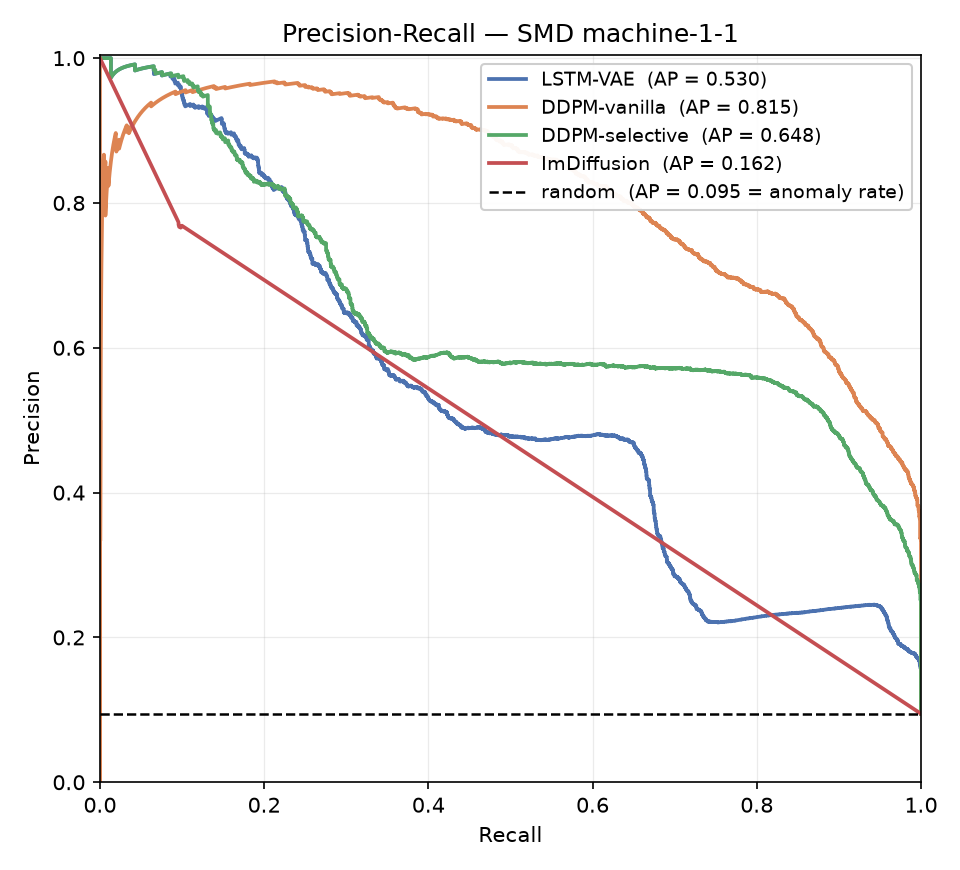
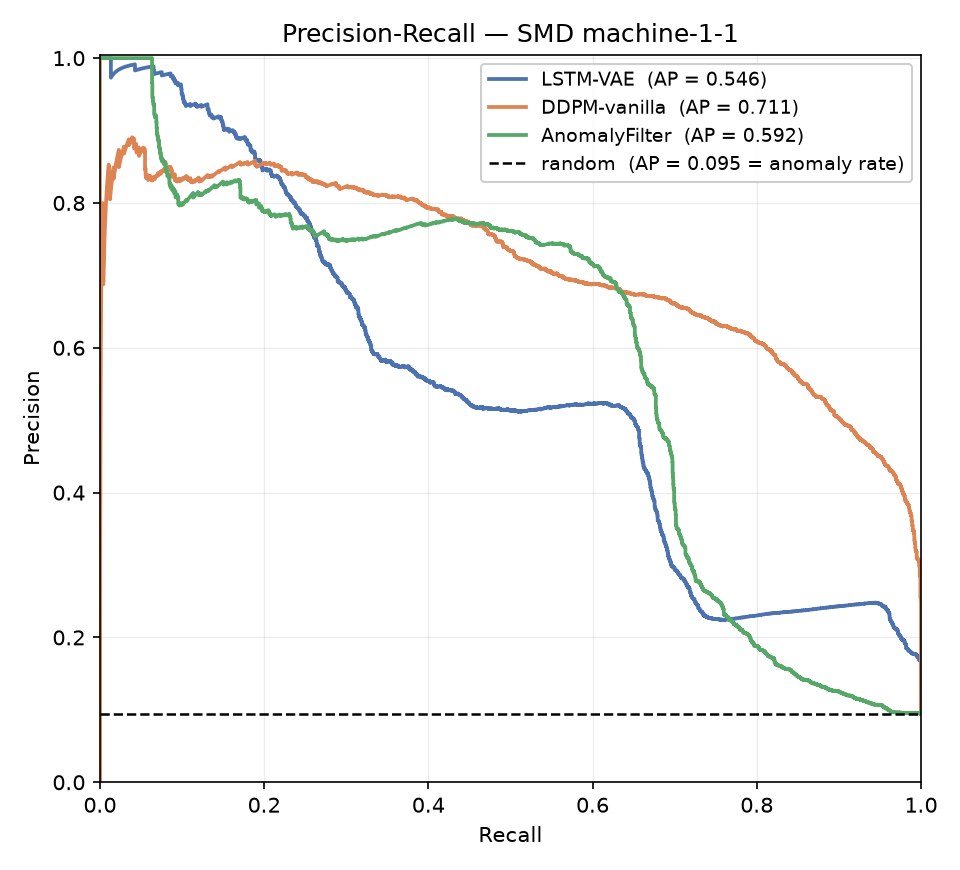
Add faithful AnomalyFilter, restore paper voting schedule for ImDiffusion
code/anomalyfilter.py (new): AnomalyFilter (Obata et al., 2026) reproduced
from the paper and github.com/KoheiObata/AnomalyFilter --
  * masked Gaussian noise (Alg. 3, Eq. 9): eps_t = B o zeta with
    B_{k,l} ~ Bernoulli(0.5), so masked elements train the model to predict
    zero, i.e. to pass the input through (Eq. 10 retain term);
  * noiseless inference (Alg. 4, Eqs. 11-12): start from sqrt(abar_lambda)*X0
    and walk all lambda reverse steps with no sigma*z anywhere -- deterministic;
  * L1 loss over all elements, linear beta 1e-4 -> 0.01, T = lambda = 50,
    window 100, N=4 / C=32 (the paper's own SMD sizes, Table 5);
  * score = squared error summed over features, smoothed with a 50-step
    moving average, as in the repo.
It reuses the CSDI backbone from imdiffusion.py unchanged (inputdim=1,
side_dim=144, no conditional-mask channel), matching the paper's Figure 2.
This replaces the hand-rolled selective mode in diffusion.py, which is now
unused: that version masked noise at 0.2, started from the raw instance
instead of the scaled one, and never walked the reverse chain.

Deviation: the paper's 10% validation split and early stopping are dropped so
every model trains on all windows for the same number of epochs, keeping the
cost columns comparable.

code/config.py: new AFConfig with the paper's Table 5 hyperparameters;
ImDiffusion voting restored to the paper's schedule -- last 30 denoising steps
every 3rd, range(0,30,3) = 10 votes.
[…]

diff --git a/code/anomalyfilter.py b/code/anomalyfilter.py
@@ -1,0 +1,194 @@
+"""Faithful reimplementation of AnomalyFilter (Obata et al., 2026).
+
+    "Selective Denoising Diffusion Model for Time Series Anomaly Detection"
+    repo: github.com/KoheiObata/AnomalyFilter
+
+This replaces the earlier hand-rolled "selective" mode in diffusion.py, which
+approximated the idea with the project's shared Transformer denoiser. The paper
+builds on CSDI -- the same backbone ImDiffusion uses -- so `DiffCSDI` is imported
+from imdiffusion.py unchanged and reused here.
+
+The method is two components that only work together (paper Tables 2 and 3):
+
+  * Masked Gaussian noise (Alg. 3, Eq. 9)
+        eps_t = B o zeta,   zeta ~ N(0, I),   B_{k,l} ~ Bernoulli(p)
+        X_t   = sqrt(abar_t) X_0 + sqrt(1 - abar_t) eps_t
+    Only a fraction p of elements receive noise. The target is eps_t itself, so
+    on masked elements the model is trained to predict ZERO -- i.e. to pass the
+    input through untouched. Eq. (10) splits the loss accordingly:
+        L = L_NonMask (denoise)  +  L_Mask (retain)
+
+  * Noiseless inference (Alg. 4, Eqs. 11-12)
+        X_lambda = sqrt(abar_lambda) X_0          <- scaled, NOT noised
+        X_{t-1}  = 1/sqrt(a_t) ( X_t - beta_t/sqrt(1-abar_t) eps_theta(X_t, t) )
+    No noise at initialisation and none at any reverse step. The raw instance is
+    handed to the model, which passes normal parts through and filters anomalous
+    ones, so |x - x_hat| localises the anomaly.
+
+Hyperparameters follow Table 5, using the paper's own SMD setting (N=4, C=32,
+reduced from 8/64 for memory). Note beta is a LINEAR schedule ending at 0.01 --
+ImDiffusion uses a quad schedule ending at 0.5, a genuinely different corruption.
+
+Deviations, all documented:
+  * DiffCSDI carries a mask-index embedding for ImDiffusion's grating strategy.
+    AnomalyFilter has no such notion, so a constant index 0 is passed; the
+    embedding degenerates to a learned bias and the architecture is otherwise
+    identical to the paper's Figure 2.
+  * inputs are the project's shared z-scored windows, as for every other model.
+"""
+import time
+
+import numpy as np
+import torch
+import torch.nn as nn
+
+from imdiffusion import DiffCSDI          # unmodified CSDI backbone
+from utils import make_windows, windows_to_series
+
+
+class AnomalyFilter(nn.Module):
+    def __init__(self, n_features, cfg, device="cpu"):
+        super().__init__()
+        c = cfg.af
+        self.K = n_features
+        self.L = c.window
+        self.T = c.T
+        self.lam = min(c.reverse_steps, c.T)      # lambda <= T
+        self.p = c.mask_p
+        self.time_emb, self.feat_emb = c.time_emb, c.feature_emb
+
+        # Figure 2: side info is time + feature embedding only -- no conditional
+        # mask channel, and the data enters as a single channel.
+        side_dim = c.time_emb + c.feature_emb
+        self.embed_layer = nn.Embedding(n_features, c.feature_emb)
+        self.diffmodel = DiffCSDI(side_dim, c.channels, c.layers, c.nheads,
+                                  c.diff_emb, c.T, inputdim=1)
+
+        beta = np.linspace(c.beta_start, c.beta_end, c.T)      # LINEAR (Table 5)
+        self.beta = beta
+        self.alpha_hat = 1 - beta                  # per-step alpha
+        self.alpha = np.cumprod(self.alpha_hat)    # alpha_bar
+        self.register_buffer("alpha_torch",
+                             torch.tensor(self.alpha).float().unsqueeze(1).unsqueeze(1))
+
+    # -- side information (CSDI) ---------------------------------------------
+    def _time_embedding(self, L, device):
+        pos = torch.arange(L, device=device).float().unsqueeze(0)
+        pe = torch.zeros(1, L, self.time_emb, device=device)
+        div = 1 / torch.pow(10000.0, torch.arange(0, self.time_emb, 2,
+                                                  device=device) / self.time_emb)
+        pe[:, :, 0::2] = torch.sin(pos.unsqueeze(2) * div)
+        pe[:, :, 1::2] = torch.cos(pos.unsqueeze(2) * div)
+        return pe
+
+    def side_info(self, B, device):
+        te = self._time_embedding(self.L, device).unsqueeze(2).expand(B, -1, self.K, -1)
+        fe = self.embed_layer(torch.arange(self.K, device=device))
+        fe = fe.unsqueeze(0).unsqueeze(0).expand(B, self.L, -1, -1)
+        return torch.cat([te, fe], dim=-1).permute(0, 3, 2, 1)      # (B,*,K,L)
+
+    def _strat(self, B, device):
+        # AnomalyFilter has no mask index; DiffCSDI expects one, so hold it fixed.
+        return torch.zeros(B, device=device, dtype=torch.long)
+
+    # -- masked Gaussian noise, Eq. (9) --------------------------------------
+    def masked_noise(self, x0):
+        zeta = torch.randn_like(x0)
+        # B_{k,l} ~ Bernoulli(p), element-wise over BOTH feature and time
+        # (repo create_mask 'bernoulli_p' reshapes a (B, K*L) draw back to (B,K,L))
+        bern = (torch.rand_like(x0) < self.p).float()
+        return bern * zeta
+
+    # -- training loss, Algorithm 3 ------------------------------------------
+    def loss(self, x0):
+        B = x0.shape[0]
+        device = x0.device
+        t = torch.randint(0, self.T, (B,), device=device)
+        abar = self.alpha_torch[t]
+        eps = self.masked_noise(x0)
+        xt = abar.sqrt() * x0 + (1 - abar).sqrt() * eps
+        pred = self.diffmodel(xt.unsqueeze(1), self.side_info(B, device), t,
+                              self._strat(B, device))
+        # repo uses nn.L1Loss over ALL elements: masked positions have target 0,
+        # which is exactly the L_Mask "retain" term of Eq. (10).
+        return (eps - pred).abs().mean()
+
+    # -- noiseless inference, Algorithm 4 ------------------------------------
+    @torch.no_grad()
+    def reconstruct(self, x0):
+        B = x0.shape[0]
+        device = x0.device
+        side = self.side_info(B, device)
+        strat = self._strat(B, device)
+
+        # Eq. (11): scale the raw instance, add NO noise
+        xhat = float(self.alpha[self.lam - 1] ** 0.5) * x0
+
+        for t in range(self.lam - 1, -1, -1):
+            tt = torch.full((B,), t, device=device, dtype=torch.long)
+            eps = self.diffmodel(xhat.unsqueeze(1), side, tt, strat)
+            c1 = 1 / self.alpha_hat[t] ** 0.5
+            c2 = self.beta[t] / (1 - self.alpha[t]) ** 0.5
+            xhat = c1 * (xhat - c2 * eps)
+            # Eq. (12): no sigma * z term at any step -- this is the whole point
+        return xhat
+
+
+# --------------------------------------------------------------------------
+# Training + scoring
+# --------------------------------------------------------------------------
+def train_anomalyfilter(model, train_series, cfg, device):
+    """AdamW, lr 1e-3, batch 64, for a fixed cfg.train.epochs.
+
+    Deviation from the paper: it holds out 10% of the training windows as
+    validation and early-stops on them. That is dropped here so AnomalyFilter
+    trains on every window for exactly the same number of epochs as the other
+    models, keeping the cost columns comparable.
+    """
+    L = model.L
+    windows, _ = make_windows(train_series, L, cfg.data.stride)
+    ds = torch.from_numpy(windows)
+
+    opt = torch.optim.AdamW(model.parameters(), lr=cfg.train.lr)
+    model.train()
+    t0 = time.time()
+
+    for ep in range(cfg.train.epochs):
+        order = torch.randperm(len(ds))
+        running, nb = 0.0, 0
+        for i in range(0, len(ds), cfg.train.batch_size):
+            xb = ds[order[i:i + cfg.train.batch_size]].to(device).permute(0, 2, 1)
+            loss = model.loss(xb)
+            opt.zero_grad()
+            loss.backward()
+            opt.step()
+            running += loss.item()
+            nb += 1
+        print(f"    epoch {ep + 1:2d}/{cfg.train.epochs}  loss={running / nb:.4f}")
+
+    return time.time() - t0
+
+
+@torch.no_grad()
+def score_anomalyfilter(model, test_series, cfg, device):
+    """MSE between input and reconstruction, summed over features, then smoothed
+    with a moving average of half the window (repo: np.convolve, half_window=50)."""
+    L = model.L
+    T_total = len(test_series)
+    windows, starts = make_windows(test_series, L, L)      # non-overlapping
+    ds = torch.from_numpy(windows).to(device)
+
+    t0 = time.time()
+    errs = []
+    for i in range(0, len(ds), cfg.train.batch_size):
+        xb = ds[i:i + cfg.train.batch_size].permute(0, 2, 1)          # (b,K,L)
+        recon = model.reconstruct(xb)
+        errs.append(((xb - recon) ** 2).sum(dim=1).cpu().numpy())     # sum feats
+    infer_time = time.time() - t0
+
+    win_scores = np.concatenate(errs, axis=0)                          # (n, L)
+    score = windows_to_series(win_scores, starts, T_total, L)
+
+    hw = max(1, L // 2)                    # half the window, as in the repo
+    score = np.convolve(score, np.ones(hw) / hw, mode="same")
+    return score.astype(np.float64), infer_time

diff --git a/code/run_experiments.py b/code/run_experiments.py
@@ -29,6 +29,8 @@ from utils import set_seed, make_windows, windows_to_series, evaluate_scores, co
 from diffusion import build_diffusion
 from baselines import LSTMVAE
 from imdiffusion import ImDiffusion, train_imdiffusion, score_imdiffusion
+from anomalyfilter import (AnomalyFilter, train_anomalyfilter,
+                           score_anomalyfilter)
 
 SCORE_BATCH = 256
 
@@ -105,6 +107,8 @@ def main():
     ap.add_argument("--im-cpu", action="store_true",
                     help="shrink ImDiffusion to a CPU-tractable size (defaults are paper-exact)")
     ap.add_argument("--no-imdiff", action="store_true", help="skip the ImDiffusion model")
+    ap.add_argument("--no-anomalyfilter", action="store_true",
+                    help="skip the AnomalyFilter model")
     ap.add_argument("--out", default="../results")
     args = ap.parse_args()
 
@@ -128,6 +132,8 @@ def main():
         cfg.im.window, cfg.im.split = 32, 8
         cfg.im.channels, cfg.im.layers = 16, 1
         cfg.im.T, cfg.im.ensemble_steps = 12, 12
+        cfg.af.window, cfg.af.channels, cfg.af.layers = 32, 16, 1
+        cfg.af.T = cfg.af.reverse_steps = 12
     device = "cuda" if torch.cuda.is_available() else "cpu"
     cfg.train.device = device
     set_seed(cfg.data.seed)
@@ -146,6 +152,7 @@ def main():
 
     rows = []
     score_curves = {}
+    im_details = None          # per-step ImDiffusion diagnostics, when it runs
 
     # ---- LSTM-VAE baseline -------------------------------------------------
     print("\n[LSTM-VAE]")
@@ -159,9 +166,10 @@ def main():
                      train_s=tt, infer_s=it, **m))
     score_curves["LSTM-VAE"] = scores
 
-    # ---- shared-backbone diffusion regimes --------------------------------
-    # (masking is now the faithful ImDiffusion below, per its own method)
-    for mode in ["vanilla", "selective"]:
+    # ---- plain DDPM baseline ----------------------------------------------
+    # (masking -> the faithful ImDiffusion below; selective -> AnomalyFilter,
+    #  both reproduced from their own papers rather than as backbone variants)
+    for mode in ["vanilla"]:
         name = f"DDPM-{mode}"
         print(f"\n[{name}]")
         diff = build_diffusion(mode, D, cfg).to(device)
@@ -174,6 +182,18 @@ def main():
         rows.append(dict(model=name, params=count_params(diff),
                          train_s=tt, infer_s=it, **m))
         score_curves[name] = scores
+
+    # ---- AnomalyFilter (faithful: masked Gaussian noise + noiseless inference)
+    if not args.no_anomalyfilter:
+        print("\n[AnomalyFilter]  (masked Gaussian noise + noiseless inference)")
+        af = AnomalyFilter(D, cfg, device=device).to(device)
+        tt = train_anomalyfilter(af, train_series, cfg, device)
+        af.eval()
+        scores, it = score_anomalyfilter(af, test_series, cfg, device)
+        m = evaluate_scores(scores, labels)
+        rows.append(dict(model="AnomalyFilter", params=count_params(af),
+                         train_s=tt, infer_s=it, **m))
+        score_curves["AnomalyFilter"] = scores
 
     # ---- ImDiffusion (faithful: grating mask + CSDI + vote ensemble) -------
     if not args.no_imdiff:

diff --git a/code/config.py b/code/config.py
@@ -68,8 +68,26 @@ class ImConfig:
 
 
 @dataclass
+class AFConfig:
+    """Faithful AnomalyFilter (Obata et al., 2026) settings -- paper Table 5.
+    N=4 / C=32 are the paper's own SMD values (reduced from 8/64 for memory)."""
+    window: int = 100          # detection window, all datasets
+    channels: int = 32         # latent dimension C
+    layers: int = 4            # number of residual blocks N
+    nheads: int = 8            # attention heads
+    diff_emb: int = 128
+    feature_emb: int = 16
+    time_emb: int = 128
+    T: int = 50                # forward diffusion step
+    reverse_steps: int = 50    # lambda -- reverse diffusion step
+    beta_start: float = 1e-4
+    beta_end: float = 0.01     # LINEAR schedule (not quad, unlike ImDiffusion)
+    mask_p: float = 0.5        # Bernoulli parameter p of the masked Gaussian noise
+
+
+@dataclass
 class TrainConfig:
-    epochs: int = 2
+    epochs: int = 10
     batch_size: int = 64
     lr: float = 1e-3
     weight_decay: float = 0.0
@@ -82,4 +100,5 @@ class Config:
     model: ModelConfig = field(default_factory=ModelConfig)
     diff: DiffusionConfig = field(default_factory=DiffusionConfig)
     im: ImConfig = field(default_factory=ImConfig)
+    af: AFConfig = field(default_factory=AFConfig)
     train: TrainConfig = field(default_factory=TrainConfig)

diff --git a/code/plots.py b/code/plots.py
@@ -19,7 +19,8 @@ from sklearn.metrics import (roc_curve, roc_auc_score,
 from utils import windows_to_series
 
 COLORS = {"LSTM-VAE": "#4C72B0", "DDPM-vanilla": "#DD8452",
-          "DDPM-selective": "#55A868", "ImDiffusion": "#C44E52"}
+          "AnomalyFilter": "#55A868", "DDPM-selective": "#55A868",
+          "ImDiffusion": "#C44E52"}
 
 
 def _c(name, i=0):

diff --git a/results/results_smd_machine-1-1.md b/results/results_smd_machine-1-1.md
@@ -1,11 +1,10 @@
 # Results (smd_machine-1-1)
 
-device=cuda, window=64, epochs=5, diffusion T=100, infer_steps=10
+device=cuda, window=64, epochs=10, diffusion T=100, infer_steps=10
 
 | model | f1 | precision | recall | f1_pa | roc_auc | pr_auc | threshold | params | train_s | infer_s |
 | --- | --- | --- | --- | --- | --- | --- | --- | --- | --- | --- |
-| LSTM-VAE | 0.5445 | 0.4698 | 0.6474 | 0.9983 | 0.8845 | 0.5304 | 6.0147 | 65542 | 1.1220 | 0.1422 |
-| DDPM-vanilla | 0.7414 | 0.6748 | 0.8226 | 0.9978 | 0.9770 | 0.8151 | 0.2663 | 84454 | 1.3973 | 3.2645 |
-| DDPM-selective | 0.6604 | 0.5568 | 0.8114 | 0.9983 | 0.9534 | 0.6478 | 3.6071 | 84454 | 1.4124 | 1.6136 |
-| ImDiffusion | 0.1728 | 0.0946 | 1.0000 | 0.9850 | 0.5484 | 0.1624 | 0.0000 | 446817 | 842.4185 | 128.6367 |
+| LSTM-VAE | 0.5704 | 0.5192 | 0.6329 | 0.9983 | 0.8892 | 0.5459 | 5.9867 | 65542 | 1.8941 | 0.1498 |
+| DDPM-vanilla | 0.6941 | 0.6200 | 0.7884 | 0.9963 | 0.9661 | 0.7113 | 0.2040 | 84454 | 2.7274 | 3.2303 |
+| AnomalyFilter | 0.6557 | 0.6918 | 0.6232 | 0.9627 | 0.8296 | 0.5917 | 0.5833 | 190433 | 280.7713 | 30.4946 |
 
